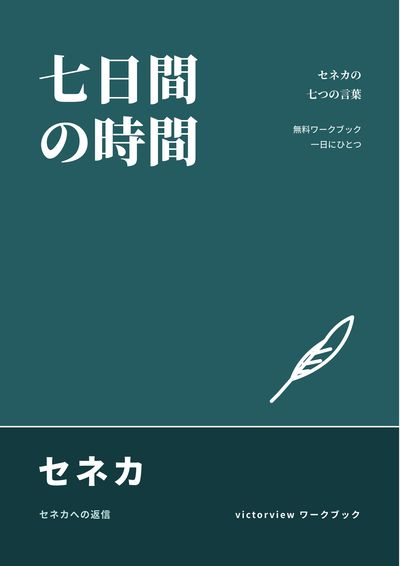
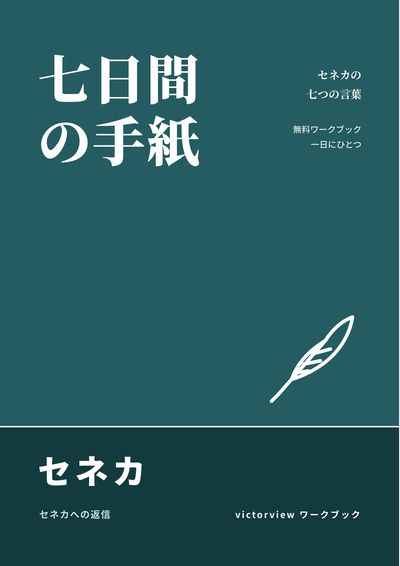
미리보기·편지 한 줄 칸을 작게 줄여 책 목록이 빨리 보이게, 위·아래 바로가기 단추(assets/jump.js), 일본어 무료판 『七日間の手紙』 반영

Changed region(s): [[0.21, 0.1802, 0.51, 0.3004]]

diff --git a/index.html b/index.html
@@ -173,17 +173,20 @@ header nav a.en { border: 1px solid var(--line); }
 /* 쓰는 법 그림 */
 .steps svg { width: 44px; height: 44px; stroke: var(--green); fill: none; stroke-width: 1.6; stroke-linecap: round; stroke-linejoin: round; display: block; margin-top: var(--s-2); }
 /* 책 속 미리보기 */
-.peek { display: grid; grid-template-columns: repeat(5, 1fr); gap: var(--s-4); }
-@media (max-width: 860px) { .peek { grid-template-columns: repeat(5, 72%); overflow-x: auto; scroll-snap-type: x mandatory; padding-bottom: var(--s-3); } .peek figure { scroll-snap-align: start; } }
-.peek figure { margin: 0; background: #fff; border: 1px solid var(--line); border-radius: var(--r); padding: var(--s-3); }
+/* 2026-10-29 시장: 미리보기·편지 한 줄을 작게 줄여 책 목록이 빨리 보이게 */
+#peek, #lines { padding: var(--s-6) 0; }
+#peek .sec-head, #lines .sec-head { margin-bottom: var(--s-4); }
+#peek .sec-head h2, #lines .sec-head h2 { font-size: 24px; }
+.peek { display: grid; grid-template-columns: repeat(5, minmax(0, 150px)); gap: var(--s-3); }
+@media (max-width: 860px) { .peek { grid-template-columns: repeat(5, 38%); overflow-x: auto; scroll-snap-type: x mandatory; padding-bottom: var(--s-2); } .peek figure { scroll-snap-align: start; } }
+.peek figure { margin: 0; background: #fff; border: 1px solid var(--line); border-radius: var(--r); padding: var(--s-2); }
 .peek img { width: 100%; height: auto; display: block; border-radius: 4px; }
-.peek figcaption { font-size: var(--fs-small); color: var(--ink-2); margin-top: var(--s-2); }
-/* 편지 한 줄 */
-.lines { display: grid; grid-template-columns: repeat(2, 1fr); gap: var(--s-4); }
-@media (max-width: 760px) { .lines { grid-template-columns: 1fr; } }
-.lines blockquote { margin: 0; background: #fff; border: 1px solid var(--line); border-radius: var(--r); padding: var(--s-5); }
-.lines q { font-family: var(--font-serif); font-size: 19px; line-height: 1.6; display: block; }
-.lines cite { display: block; font-style: normal; font-size: var(--fs-small); color: var(--ink-2); margin-top: var(--s-3); }
+.peek figcaption { font-size: 13px; color: var(--ink-2); margin-top: var(--s-1); line-height: 1.35; }
+/* 편지 한 줄: 한 줄로 옆으로 넘겨 보기 */
+.lines { display: flex; gap: var(--s-3); overflow-x: auto; scroll-snap-type: x mandatory; padding-bottom: var(--s-2); }
+.lines blockquote { flex: 0 0 280px; scroll-snap-align: start; margin: 0; background: #fff; border: 1px solid var(--line); border-radius: var(--r); padding: var(--s-4); }
+.lines q { font-family: var(--font-serif); font-size: 16px; line-height: 1.55; display: block; }
+.lines cite { display: block; font-style: normal; font-size: 12px; color: var(--ink-2); margin-top: var(--s-2); }
 .lines cite::before { content: "— "; color: var(--dahong); }
 /* 자주 묻는 질문 */
 .faq details { background: #fff; border: 1px solid var(--line); border-radius: var(--r); padding: 0 var(--s-5); margin-top: var(--s-3); }
@@ -522,5 +525,6 @@ dialog.pol .x { position: absolute; right: var(--s-3); top: var(--s-3); min-heig
 
 
 <script src="assets/share.js" defer></script>
+<script src="assets/jump.js" defer></script>
 </body>
 </html>

diff --git a/ja/index.html b/ja/index.html
@@ -49,7 +49,7 @@
 </div></section>
 <section class="sec alt" id="free"><div class="wrap">
   <div class="sec-head reveal"><span class="kicker">無料 · FREE</span><h2>七日間、一日一通</h2></div>
-  <div class="freebox reveal"><img src="../covers/ja/free7.jpg" alt="七日間の時間" width="400" height="600" loading="lazy"><div><span class="tag">無料</span><h3>七日間の時間</h3><p>セネカ『人生の短さについて』から選んだ七つの一節と、あなたが書く七通の返信。無料のワークブックです。</p><a class="btn" href="https://payhip.com/b/0q9t8" target="_blank" rel="noopener">無料で受け取る</a> <button class="btn ghost share-btn" type="button" data-url="https://victorview.netlify.app/ja/#free" data-title="七日間の時間" data-text="セネカの七つの言葉に、一日一通返信を書く無料のワークブックです。" data-done="リンクをコピーしました" data-copy="このリンクをコピーしてください">友だちに送る</button></div></div>
+  <div class="freebox reveal"><img src="../covers/ja/free7.jpg" alt="七日間の手紙" width="400" height="600" loading="lazy"><div><span class="tag">無料</span><h3>七日間の手紙</h3><p>セネカ『人生の短さについて』から選んだ七つの一節と、あなたが書く七通の返信。無料のワークブックです。</p><a class="btn" href="https://payhip.com/b/0q9t8" target="_blank" rel="noopener">無料で受け取る</a> <button class="btn ghost share-btn" type="button" data-url="https://victorview.netlify.app/ja/#free" data-title="七日間の手紙" data-text="セネカの七つの言葉に、一日一通返信を書く無料のワークブックです。" data-done="リンクをコピーしました" data-copy="このリンクをコピーしてください">友だちに送る</button></div></div>
 </div></section>
 <section class="sec" id="bond"><div class="wrap">
   <div class="sec-head reveal"><span class="kicker">どの国の読者にも</span><h2>時代と国をこえて届く手紙</h2></div>
@@ -76,6 +76,7 @@
 </div></footer>
 <script src="../assets/lang.js" defer></script>
 <script src="../assets/share.js" defer></script>
+<script src="../assets/jump.js" defer></script>
 <script>
 (function () {
   document.body.classList.remove('no-js');

diff --git a/assets/global.css b/assets/global.css
@@ -140,13 +140,16 @@ header nav > a:hover { background: var(--paper-2); }
 .steps span { display: block; color: var(--ink-2); margin-top: var(--s-1); }
 
 /* 책 속 미리보기 */
-.peek { display: grid; grid-template-columns: repeat(4, 1fr); gap: var(--s-4); }
-.peek.n2 { grid-template-columns: repeat(2, 1fr); max-width: 760px; }
-.peek.n3 { grid-template-columns: repeat(3, 1fr); }
-@media (max-width: 860px) { .peek { grid-template-columns: repeat(4, 80%); overflow-x: auto; scroll-snap-type: x mandatory; padding-bottom: var(--s-3); scrollbar-width: thin; } .peek.n2, .peek.n3 { grid-template-columns: repeat(3, 80%); } .peek figure { scroll-snap-align: start; } }
-.peek figure { margin: 0; background: #fff; border: 1px solid var(--line); border-radius: var(--r); padding: var(--s-3); }
+/* 2026-10-29 시장: 미리보기를 작게 줄여 책 목록이 빨리 보이게 */
+#peek { padding: var(--s-6) 0; }
+#peek .sec-head { margin-bottom: var(--s-4); }
+.peek { display: grid; grid-template-columns: repeat(4, minmax(0, 150px)); gap: var(--s-3); }
+.peek.n2 { grid-template-columns: repeat(2, minmax(0, 150px)); }
+.peek.n3 { grid-template-columns: repeat(3, minmax(0, 150px)); }
+@media (max-width: 860px) { .peek, .peek.n2, .peek.n3 { grid-template-columns: repeat(4, 38%); overflow-x: auto; scroll-snap-type: x mandatory; padding-bottom: var(--s-2); scrollbar-width: thin; } .peek figure { scroll-snap-align: start; } }
+.peek figure { margin: 0; background: #fff; border: 1px solid var(--line); border-radius: var(--r); padding: var(--s-2); }
 .peek img { width: 100%; height: auto; display: block; border-radius: 4px; background: var(--paper-2); }
-.peek figcaption { font-size: var(--fs-small); color: var(--ink-2); margin-top: var(--s-2); }
+.peek figcaption { font-size: 13px; color: var(--ink-2); margin-top: var(--s-1); line-height: 1.35; }
 
 /* 세계의 서가 */
 .world { display: grid; grid-template-columns: repeat(auto-fill, minmax(200px, 1fr)); gap: var(--s-4); list-style: none; margin: 0; padding: 0; }

diff --git a/assets/jump.js b/assets/jump.js
@@ -1,0 +1,20 @@
+/* 위·아래 바로가기 단추 (2026-10-29 시장): 오른쪽 아래에 맨 위로 ▲ / 맨 아래로 ▼. 조금 내려오면 나타난다. */
+(function () {
+  var ko = /^ko/.test(document.documentElement.lang || '');
+  var css = '.vv-jump{position:fixed;right:16px;bottom:20px;z-index:50;display:flex;flex-direction:column;gap:8px;opacity:0;pointer-events:none;transition:opacity .2s}' +
+    '.vv-jump.on{opacity:1;pointer-events:auto}' +
+    '.vv-jump button{width:44px;height:44px;border-radius:50%;border:1px solid rgba(0,0,0,.12);background:rgba(255,255,255,.94);color:#2B2B2B;font-size:18px;line-height:1;cursor:pointer;box-shadow:0 2px 8px rgba(0,0,0,.12)}' +
+    '.vv-jump button:hover,.vv-jump button:focus-visible{background:#B4432F;color:#fff;outline:none}' +
+    '@media print{.vv-jump{display:none}}';
+  var st = document.createElement('style'); st.textContent = css; document.head.appendChild(st);
+  var box = document.createElement('div'); box.className = 'vv-jump';
+  box.innerHTML = '<button type="button" data-to="top" aria-label="' + (ko ? '맨 위로' : 'Back to top') + '">▲</button>' +
+    '<button type="button" data-to="end" aria-label="' + (ko ? '맨 아래로' : 'Go to bottom') + '">▼</button>';
+  document.body.appendChild(box);
+  box.addEventListener('click', function (e) {
+    var b = e.target.closest('button'); if (!b) return;
+    window.scrollTo({ top: b.dataset.to === 'top' ? 0 : document.documentElement.scrollHeight, behavior: 'smooth' });
+  });
+  var tick = function () { box.classList.toggle('on', window.scrollY > 300); };
+  window.addEventListener('scroll', tick, { passive: true }); tick();
+})();

diff --git a/de/index.html b/de/index.html
@@ -76,6 +76,7 @@
 </div></footer>
 <script src="../assets/lang.js" defer></script>
 <script src="../assets/share.js" defer></script>
+<script src="../assets/jump.js" defer></script>
 <script>
 (function () {
   document.body.classList.remove('no-js');

diff --git a/es/index.html b/es/index.html
@@ -76,6 +76,7 @@
 </div></footer>
 <script src="../assets/lang.js" defer></script>
 <script src="../assets/share.js" defer></script>
+<script src="../assets/jump.js" defer></script>
 <script>
 (function () {
   document.body.classList.remove('no-js');

diff --git a/fr/index.html b/fr/index.html
@@ -76,6 +76,7 @@
 </div></footer>
 <script src="../assets/lang.js" defer></script>
 <script src="../assets/share.js" defer></script>
+<script src="../assets/jump.js" defer></script>
 <script>
 (function () {
   document.body.classList.remove('no-js');

diff --git a/it/index.html b/it/index.html
@@ -76,6 +76,7 @@
 </div></footer>
 <script src="../assets/lang.js" defer></script>
 <script src="../assets/share.js" defer></script>
+<script src="../assets/jump.js" defer></script>
 <script>
 (function () {
   document.body.classList.remove('no-js');

diff --git a/pt-br/index.html b/pt-br/index.html
@@ -75,6 +75,7 @@
 </div></footer>
 <script src="../assets/lang.js" defer></script>
 <script src="../assets/share.js" defer></script>
+<script src="../assets/jump.js" defer></script>
 <script>
 (function () {
   document.body.classList.remove('no-js');

diff --git a/zh-tw/index.html b/zh-tw/index.html
@@ -74,6 +74,7 @@
 </div></footer>
 <script src="../assets/lang.js" defer></script>
 <script src="../assets/share.js" defer></script>
+<script src="../assets/jump.js" defer></script>
 <script>
 (function () {
   document.body.classList.remove('no-js');

diff --git a/english.html b/english.html
@@ -77,6 +77,7 @@
 </div></footer>
 <script src="assets/lang.js" defer></script>
 <script src="assets/share.js" defer></script>
+<script src="assets/jump.js" defer></script>
 <script>
 (function () {
   document.body.classList.remove('no-js');

diff --git a/free-seven-days.html b/free-seven-days.html
@@ -322,5 +322,6 @@ var DATA = {"id": "brev-7", "book": "세네카 · 일곱 날의 시간", "src": 
 })();
 </script>
 <script src="assets/share.js" defer></script>
+<script src="assets/jump.js" defer></script>
 </body>
 </html>
